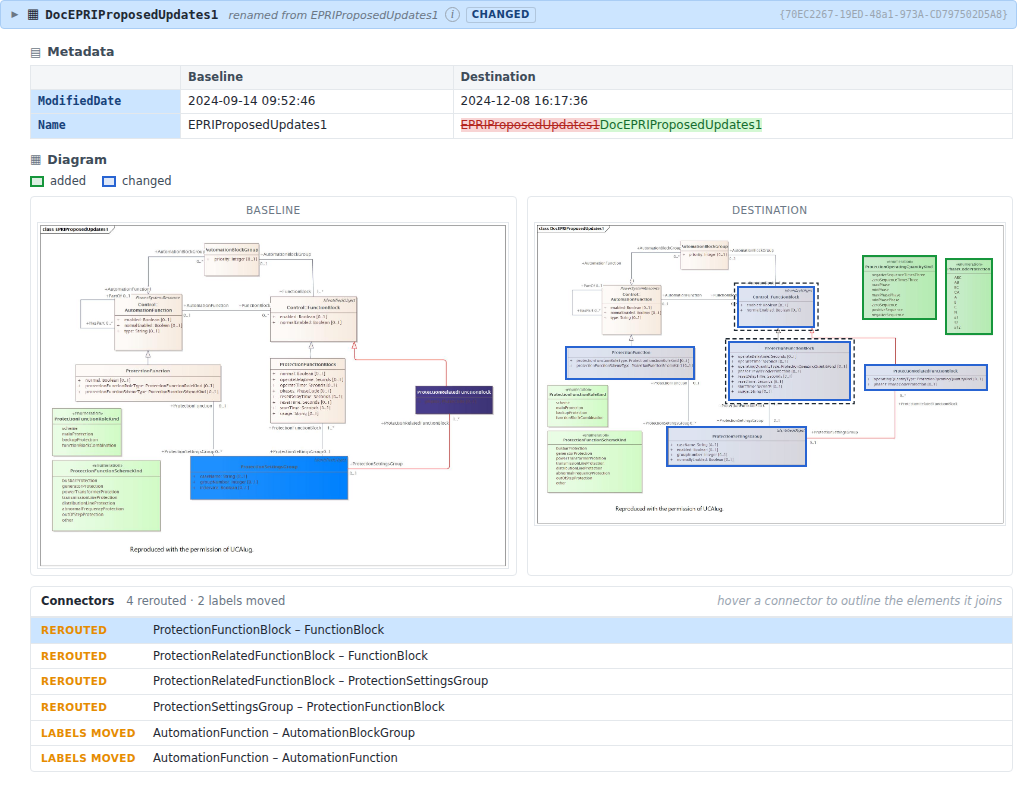
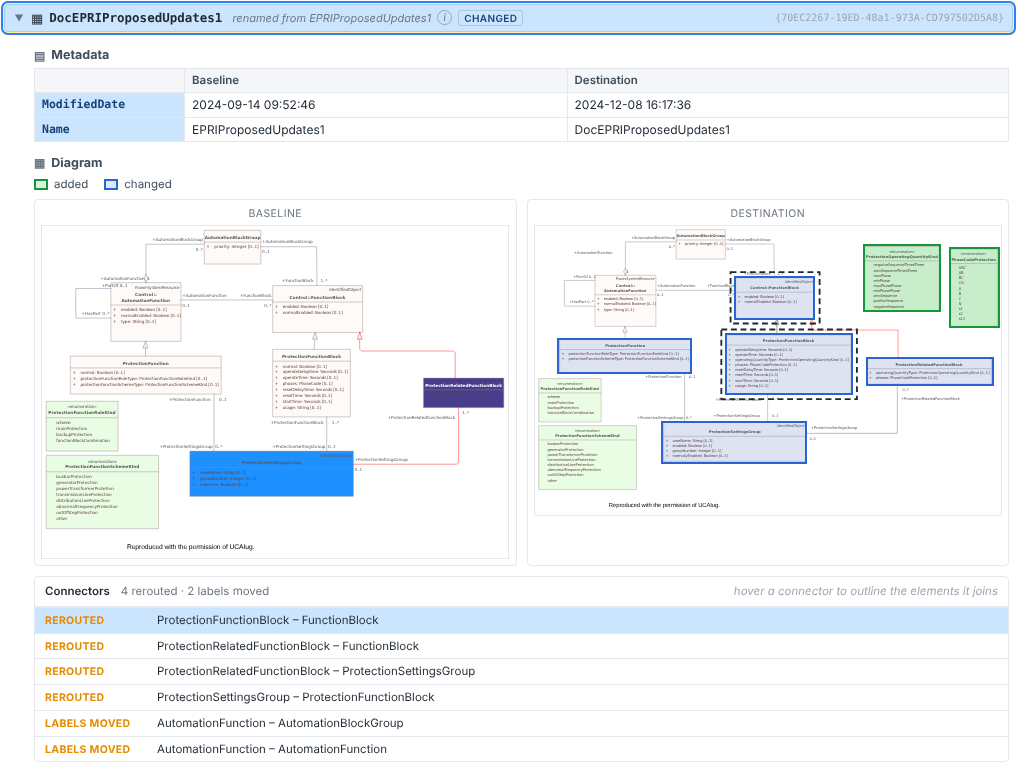
Docs and screenshots for 2.3.0
Claude-Session: https://claude.ai/code/session_011tgNrNWWxYpt25Uj32Kb6G

diff --git a/README.md b/README.md
@@ -6,7 +6,7 @@
 - **What it does:** given a "baseline" and a "destination" model (EA `.eap` / `.qea` project files, XMI 1.1 exports, or an EA model comparison log), it writes a single, self-contained HTML report of every added, deleted, moved and changed package, class and diagram. The report has search, filters, word-level redlines and highlighted diagram changes, and needs no server or internet connection.
 - **Who uses it:** the UCA TF13 model managers use it to publish the changes in each CIM release, and anyone tracking the CIM can use it to see what a new release means for their profiles, interfaces or products.
 
-See an [example report](https://cim-compare.ucaiug.io/example-comparison-report/comparison-report.html), or download this guide as a [PDF](cim-compare-2.2.0-users-guide.pdf).
+See an [example report](https://cim-compare.ucaiug.io/example-comparison-report/comparison-report.html), or download this guide as a [PDF](cim-compare-2.3.0-users-guide.pdf).
 
 ## Table of Contents
 - [Home](#cim-compare)
@@ -41,10 +41,21 @@ See an [example report](https://cim-compare.ucaiug.io/example-comparison-report/
 
 ## Latest Release
 
-2.2.0  
+2.3.0  
 
  - For release notes describing the latest features and/or fixes visit [latest release](https://github.com/cimug-org/cim-compare/releases).
- - To directly download the latest release of the cim-compare command-line application click [cim-compare-2.2.0.jar](https://github.com/cimug-org/cim-compare/releases/download/2.2.0/cim-compare-2.2.0.jar).
+ - To directly download the latest release of the cim-compare command-line application click [cim-compare-2.3.0.jar](https://github.com/cimug-org/cim-compare/releases/download/2.3.0/cim-compare-2.3.0.jar).
+
+<details markdown="1">
+<summary>What's New in 2.3.0</summary>
+
+- **Tagged values are compared** ([#169](https://github.com/cimug-org/cim-compare/issues/169)): user-defined tags (such as `baseuri` and `baseprefix`) on packages, classes, attributes and associations, which earlier releases never compared. They are recorded in the comparison XML as EA's Compare Utility records them, and shown in the report; an element whose only change is a tag is reported as changed. See [Class Details](#class-details).
+- **The summary counts stay in view** ([#175](https://github.com/cimug-org/cim-compare/issues/175)) while you scroll; **Off · Counts · Counts + legend** at the right of the counts sets what stays, and `p` cycles it. See [Report Layout](#report-layout).
+- **Fix:** diagram highlight outlines stopped partway down elements that EA draws taller than their stored size, for example a class whose added stereotypes push its name down ([#165](https://github.com/cimug-org/cim-compare/issues/165)). Each outline now covers the element as EA drew it, in height as well as width.
+- **Fix:** a link end's heading, and the heading of an attribute's ⓘ metadata, showed the name in capitals, e.g. "SOURCE END — BASEVOLTAGE" ([#172](https://github.com/cimug-org/cim-compare/issues/172)). The name now keeps its own case.
+- **Fix:** metadata tables redlined a changed name or alias, though the old value is shown beside it ([#179](https://github.com/cimug-org/cim-compare/issues/179)). Tables now redline only free text (notes); a new name is shown as plain text, as for a renamed attribute.
+
+</details>
 
 <details markdown="1">
 <summary>What's New in 2.2.0</summary>
@@ -122,7 +133,7 @@ The output generated by **cim-compare** is a single, self-contained HTML file co
 ### Report Layout
 
 - **Header** (always visible at the top): the cim-compare logo (a link to the [cim-compare website](https://cim-compare.ucaiug.io)), the baseline and destination versions, the scope of the comparison (the package given with `--package`, or the model's root nodes and "full model"), when the comparison was made, the cim-compare version (a link to its release), and the controls described below. At the right, **Print / PDF** opens the browser's print dialog (see [Printing and PDF](#printing-and-pdf)).
-- **Summary**: counts of added, deleted, moved and changed packages, classes and diagrams. Click a count to show only those items (for example **Classes › 9 added** shows just the 9 added classes, with their packages opened and every other package hidden); click more than one to combine them, and **clear filters** to show everything again. The package outline on the left always lists the whole model.
+- **Summary**: counts of added, deleted, moved and changed packages, classes and diagrams. Click a count to show only those items (for example **Classes › 9 added** shows just the 9 added classes, with their packages opened and every other package hidden); click more than one to combine them, and **clear filters** to show everything again. The package outline on the left always lists the whole model. The counts stay under the header while you scroll; **Off · Counts · Counts + legend** at the right of the counts sets what stays in view (Counts by default), and the `p` key cycles it. The choice is remembered in the browser. Printing shows the counts and legend once, at the top.
 - **Legend**: what each color means (see [Status Colors](#status-colors)). When differences between a value and an empty value were left out (see `--show-empty-values`), a line under the legend says how many; point at it for the fields concerned.
 - **Package outline** (left): every package with changes, and the number of changed classes and diagrams in it, including its sub-packages. Click a package to jump to it; the package you are reading is highlighted as you scroll. Turn it off with the **Outline** checkbox or the `o` key. It is hidden in narrow windows and when printing.
 - **Package tree** (right): packages, and within each package its classes and then its diagrams, grouped by status in the order Deleted, Added, Moved, Changed. Click a row to open or close it; **Expand all** and **Collapse all** open or close everything, and Alt-click on an arrow opens a package and everything in it.
@@ -147,8 +158,9 @@ Open a class to see what changed in it, in this order:
 
 1. **Description** – the class notes. When they changed, the baseline text appears beside the destination text, and the destination is *redlined*: wording removed since the baseline is struck through in red and new wording is highlighted in green. When most of a text was rewritten, the whole old text is struck through and the whole new text inserted, which is easier to read than a word-by-word comparison.
 2. **Metadata** – the class properties that changed (stereotype, abstract, alias and so on), baseline beside destination. A property whose value was cleared or filled in is shown as changed, with *(empty)* on the side that has no value. In the housekeeping fields EA fills in automatically (Complexity, Phase, Version, GenType, and Containment, IsLiteral, Derived, Const and Static at their defaults), a difference between a value and an empty value is not shown unless the report was generated with `--show-empty-values`.
-3. **Attributes** – one row per changed attribute: its type and multiplicity in the baseline and in the destination, and its notes, redlined. In the Destination column a changed type is shown as the new type in blue, and a changed multiplicity is redlined. A renamed attribute shows its new name with "renamed from *old name*" under it. A new attribute shows "does not exist" in the baseline column; a deleted one shows "removed from model" in the destination column. When an attribute changed only in properties its row does not show, such as an enumeration literal given an initial value, its ⓘ is blue with a dot and the row reads *metadata changed - hover ⓘ* (*see below* in inline mode).
-4. **Links** – generalizations, associations and aggregations, each as a card showing both ends in the baseline and in the destination, followed by the changed properties of the source end and the target end. Each end of an association reads *class* <i>role</i> *role name* [*multiplicity*], for example `ACDCTerminal` <i>role</i> `ACDCTerminal [0..1]`: the class (a link to it), then its role name and multiplicity. On the destination line changed role names and multiplicities are redlined. A multiplicity written differently with the same meaning, such as `1..1` and `1`, is tagged **notation only**.
+3. **Tagged values** – the class's user-defined tagged values (such as `baseuri` or `baseprefix`) that were added, removed or changed, each with its baseline and destination value. A tag on one side only shows *(no tag)* on the other. Packages show the same section at the top of their contents, and association cards show a **Tagged values** table under Link metadata, and under each end that has tags. An attribute's tags are listed in its ⓘ metadata; a change only in its tags marks the row *metadata changed*. An element whose only change is a tagged value counts as changed. The ⓘ of a package or class lists all its tags.
+4. **Attributes** – one row per changed attribute: its type and multiplicity in the baseline and in the destination, and its notes, redlined. In the Destination column a changed type is shown as the new type in blue, and a changed multiplicity is redlined. A renamed attribute shows its new name with "renamed from *old name*" under it. A new attribute shows "does not exist" in the baseline column; a deleted one shows "removed from model" in the destination column. When an attribute changed only in properties its row does not show, such as an enumeration literal given an initial value, its ⓘ is blue with a dot and the row reads *metadata changed - hover ⓘ* (*see below* in inline mode).
+5. **Links** – generalizations, associations and aggregations, each as a card showing both ends in the baseline and in the destination, followed by the changed properties of the source end and the target end. Each end of an association reads *class* <i>role</i> *role name* [*multiplicity*], for example `ACDCTerminal` <i>role</i> `ACDCTerminal [0..1]`: the class (a link to it), then its role name and multiplicity. On the destination line changed role names and multiplicities are redlined. A multiplicity written differently with the same meaning, such as `1..1` and `1`, is tagged **notation only**.
 
 ![](media/Report_Class_Description_Attributes.png)
 
@@ -159,7 +171,7 @@ Other controls in the header:
 - **ⓘ hover / ⓘ inline** – the ⓘ next to a package, class or attribute shows all of its properties, with the baseline and destination values in full, including the unredlined baseline notes. In **hover** mode (the default) they appear in a pop-up when you point at the ⓘ; click it to keep the pop-up open. In **inline** mode they appear in the page.
 - **Hide redline** – shows the destination text without the struck and inserted markings.
 
-Redlining marks changed descriptions and notes, names (including role names) and multiplicities. A changed attribute type is the one exception: it is shown as the new type, in blue. A renamed element also shows "renamed from *old name*" next to its new name.
+Redlining marks changed descriptions and notes, role names and multiplicities. A changed attribute type is shown as the new type, in blue, and in tables that show the baseline and destination values side by side, a changed name or other short value is shown as it is. A renamed element also shows "renamed from *old name*" next to its new name.
 
 Descriptions and notes are shown exactly as stored in Enterprise Architect. Any rich-text formatting (for example `<i>`, `<sub>`, `<li>`) appears as raw markup; it is not rendered.
 - **GUIDs** – each package, class, attribute and link shows its GUID, in grey at the right. Turn them off with the checkbox or the `g` key. The GUID shows when an element was renamed rather than replaced: a renamed element keeps its GUID.
@@ -213,6 +225,7 @@ Every diagram that changed is listed. A diagram whose only changes are its name,
 | `Home` | Back to the top (the browser's Back button returns you) |
 | `o` | Show / hide the package outline |
 | `g` | Show / hide GUIDs |
+| `p` | Keep in view while scrolling: off / counts / counts + legend |
 | `+` `−` `0` | In an enlarged diagram: zoom in, zoom out, fit to the window |
 | `Esc` | Clear the search, close a pop-up or an enlarged diagram |
 
@@ -238,13 +251,13 @@ Given the large file sizes consumed and produced by the utility, **OutOfMemory**
 > For a 32-bit JRE it is recommended to specify a max heap size of at least 1G (i.e. 1024m) resources permitting. With a 1G heap size the execution will typically run slower. Note that the maximum theoretical heap limit for a 32-bit JVM is 4G. However, due to various additional constraints such as available swap, kernel address space usage, memory fragmentation, and VM overhead, in practice the limit can be much lower. On most modern 32-bit Windows systems the maximum heap size will range from 1.4G to 1.6G. A 32-bit Java refuses a larger setting such as `-Xmx4G` at startup with "Invalid maximum heap size". A comparison of the CIM Grid package with diagrams runs on 32-bit Java 17 with `-Xmx1200m`.
 
 ```
-java -Xmx1G -jar cim-compare-2.2.0.jar iec61970cim16v26a.xmi iec61970cim17v16.xmi D:\reports
+java -Xmx1G -jar cim-compare-2.3.0.jar iec61970cim16v26a.xmi iec61970cim17v16.xmi D:\reports
 ```
 
 > For 64 bit JREs it is recommended that the maximum heap size be increased to at least 2G (i.e. 2048m) but more if available. It has been observed that 2G is minimally sufficient to handle larger CIM models one might encounter. In the below example 4G is being allocated.
 
 ```
-java -Xmx4G -jar cim-compare-2.2.0.jar iec61970cim16v26a.qea iec61970cim17v16.qea D:\reports
+java -Xmx4G -jar cim-compare-2.3.0.jar iec61970cim16v26a.qea iec61970cim17v16.qea D:\reports
 ```
 
 > Most of that memory is needed to export and compare the models. Producing the report itself takes much less: for a full-model CIM17v40 → CIM18v16 comparison (a 92 MB comparison XML), the report step needed less than 1G, including with `--full`.
@@ -324,9 +337,9 @@ If you are comparing `.qea` files with a 64-bit EA (EA 16 or later) then you'll 
 >
 > The purpose of each is:
 > 
-> - `SSJavaCOM.dll` - the 32-bit COM Module DLL (Dynamic Linked Library) that **cim-compare** will link to when a 32-bit Java JVM/JRE is used to run `cim-compare-2.2.0.jar` from the command line (the usual path for `.eap` project files with a 32-bit EA; `.eap` files use Microsoft's Jet database engine, which is 32-bit only, so only a 32-bit EA can open them, though 64-bit Java with `SSJavaCOM64.dll` can also drive a 32-bit EA, as in the tested mixed comparison under [Warning: Potential Configuration Pitfalls](#warning-potential-configuration-pitfalls)).
+> - `SSJavaCOM.dll` - the 32-bit COM Module DLL (Dynamic Linked Library) that **cim-compare** will link to when a 32-bit Java JVM/JRE is used to run `cim-compare-2.3.0.jar` from the command line (the usual path for `.eap` project files with a 32-bit EA; `.eap` files use Microsoft's Jet database engine, which is 32-bit only, so only a 32-bit EA can open them, though 64-bit Java with `SSJavaCOM64.dll` can also drive a 32-bit EA, as in the tested mixed comparison under [Warning: Potential Configuration Pitfalls](#warning-potential-configuration-pitfalls)).
 >
-> - `SSJavaCOM64.dll` - the 64-bit COM Module DLL that **cim-compare** will link to when a 64-bit Java JVM/JRE is used to run `cim-compare-2.2.0.jar` from the command line (the usual path for `.qea` project files with a 64-bit EA, EA 16 or later; `.qea` itself is not 64-bit-only, as Sparx states `.qea` files work in both 32-bit and 64-bit EA).
+> - `SSJavaCOM64.dll` - the 64-bit COM Module DLL that **cim-compare** will link to when a 64-bit Java JVM/JRE is used to run `cim-compare-2.3.0.jar` from the command line (the usual path for `.qea` project files with a 64-bit EA, EA 16 or later; `.qea` itself is not 64-bit-only, as Sparx states `.qea` files work in both 32-bit and 64-bit EA).
 >   	
 > **cim-compare** communicates to the appropriate COM Module DLL depending on the particular JVM (32-bit or 64-bit) being used on the command line. Which DLL to load is decided at run time: EA's `eaapi.jar` loads `SSJavaCOM.dll` when Java reports its architecture as `x86` (32-bit Java) and `SSJavaCOM64.dll` otherwise.
 >
@@ -338,8 +351,8 @@ To use **cim-compare** on a system with a dual 32-bit and 64-bit Sparx EA instal
 ```
 C:\
 ├── cim-compare
-│   ├── cim-compare-2.2.0.jar   (the latest downloaded from https://cim-compare.ucaiug.io)
-│   ├── cim-compare-2.2.0.bat   (example batch file for execution)
+│   ├── cim-compare-2.3.0.jar   (the latest downloaded from https://cim-compare.ucaiug.io)
+│   ├── cim-compare-2.3.0.bat   (example batch file for execution)
 │   ├── ea15
 │   │   ├── SSJavaCOM.dll       (copied from "C:\Program Files (x86)\Sparx Systems\EA15\Java API")
 │   │   └── SSJavaCOM64.dll     (copied from "C:\Program Files (x86)\Sparx Systems\EA15\Java API")
@@ -368,7 +381,7 @@ Following is a set of command lines based on the above example configuration and
  
 ```
 "C:\Program Files (x86)\Zulu\zulu-17\bin\java.exe" -Xmx1200m -Djava.library.path="C:\cim-compare\ea15" ^
-  -jar cim-compare-2.2.0.jar cim17v40.eap cim18v02.eap comparison-report.html ^
+  -jar cim-compare-2.3.0.jar cim17v40.eap cim18v02.eap comparison-report.html ^
   --include-diagrams --image-type=JPG
 ```
 
@@ -384,7 +397,7 @@ The above 32-bit command line example uses:
 
 ```
 "C:\Program Files\Zulu\zulu-17\bin\java.exe" -Xmx4G -Djava.library.path="C:\cim-compare\ea16" ^
-  -jar cim-compare-2.2.0.jar cim17v40.qea cim18v02.qea comparison-report.html ^
+  -jar cim-compare-2.3.0.jar cim17v40.qea cim18v02.qea comparison-report.html ^
   --include-diagrams --image-type=SVG
 ```
 The above 64-bit command line example uses:
@@ -413,7 +426,7 @@ The above 64-bit command line example uses:
 >
 > If choosing to simplify the command line via use of the default installation of Java such as:
 >
-> `java -Xmx4G -Djava.library.path="C:\cim-compare\ea16" -jar cim-compare-2.2.0.jar ...`
+> `java -Xmx4G -Djava.library.path="C:\cim-compare\ea16" -jar cim-compare-2.3.0.jar ...`
 > 
 > ...then it is suggested that you confirm the bit-wise version of your default Java installation. The following java command will result in output that should indicate if your default installation is 32-bit. This either by explicitly stating as such or by including the installation directory which for 32-bit will be located in `C:\Program Files (x86)\...`. Note that for many of the newest releases of Java, if not explicitly stated as being 32-bit, it is then implied to be 64-bit as illustrated in this example:
 >
@@ -449,7 +462,7 @@ The preferred usage is to provide two Enterprise Architect `*.eap` or `*.qea` fi
 The command-line usage for this option takes the following form:
 
 ```
-java [<jvm-parameter-1>]...[<jvm-parameter-n>] -jar cim-compare-2.2.0.jar
+java [<jvm-parameter-1>]...[<jvm-parameter-n>] -jar cim-compare-2.3.0.jar
      <baseline-model-file> <destination-model-file> [<output-directory-or-html-file>]
      [--package=<package-name>,...] [--full] [--show-empty-values] [--include-diagrams] [--image-type=<image-file-extension>]
      [--zip] [--cleanup]
@@ -457,7 +470,7 @@ java [<jvm-parameter-1>]...[<jvm-parameter-n>] -jar cim-compare-2.2.0.jar
 
 *Parameter Details*:
 
-`[<jvm-parameter-x>]` **(Optional)**: A JVM (Java Virtual Machine) parameter that may be needed for execution. JVM parameters are configurations used to control the behavior of the JVM at runtime and take a form such as `-Xmx1G`, `-Xmx4G` or `-Dfile.encoding=UTF-8`. These parameters can influence memory usage, garbage collection, system properties, debugging, and performance tuning. JVM parameters are passed as command-line arguments when starting a Java application and if used should **appear first** in the sequence of command line arguments (before `cim-compare-2.2.0.jar`). This is necessary so that **cim-compare** does not try to process them as part of its command line arguments which should always appear after `cim-compare-2.2.0.jar`. Note that for this Option #1 the `-Djava.library.path=<directory>` JVM parameter is required as will be described later.
+`[<jvm-parameter-x>]` **(Optional)**: A JVM (Java Virtual Machine) parameter that may be needed for execution. JVM parameters are configurations used to control the behavior of the JVM at runtime and take a form such as `-Xmx1G`, `-Xmx4G` or `-Dfile.encoding=UTF-8`. These parameters can influence memory usage, garbage collection, system properties, debugging, and performance tuning. JVM parameters are passed as command-line arguments when starting a Java application and if used should **appear first** in the sequence of command line arguments (before `cim-compare-2.3.0.jar`). This is necessary so that **cim-compare** does not try to process them as part of its command line arguments which should always appear after `cim-compare-2.3.0.jar`. Note that for this Option #1 the `-Djava.library.path=<directory>` JVM parameter is required as will be described later.
 
 `<baseline-model-file>` **(Required)**: An Enterprise Architect baseline `.eap` or `.qea` model file. When not specified as an absolute file path the location is assumed to be the directory **cim-compare** is being executed from.
 
@@ -484,37 +497,37 @@ java [<jvm-parameter-1>]...[<jvm-parameter-n>] -jar cim-compare-2.2.0.jar
 **Command Line Examples:**
 
 ```
-java -Xmx1G -Djava.library.path="C:\cim-compare\ea15" -jar cim-compare-2.2.0.jar ^
+java -Xmx1G -Djava.library.path="C:\cim-compare\ea15" -jar cim-compare-2.3.0.jar ^
   "C:\exports\15v33.eap" "C:\exports\CIM16v26a.eap" "C:\reports"
 
-java -Xmx4G -Djava.library.path="C:\cim-compare\ea16" -jar cim-compare-2.2.0.jar ^
+java -Xmx4G -Djava.library.path="C:\cim-compare\ea16" -jar cim-compare-2.3.0.jar ^
   "C:\exports\15v33.qea" "C:\exports\CIM16v26a.qea" "C:\reports"
 
-java -Xmx1G -Djava.library.path="C:\cim-compare\ea15" -jar cim-compare-2.2.0.jar ^
+java -Xmx1G -Djava.library.path="C:\cim-compare\ea15" -jar cim-compare-2.3.0.jar ^
   "C:\exports\15v33.eap" "C:\exports\CIM16v26a.eap" --package=IEC61970
 
-java -Xmx4G -Djava.library.path="C:\cim-compare\ea16" -jar cim-compare-2.2.0.jar ^
+java -Xmx4G -Djava.library.path="C:\cim-compare\ea16" -jar cim-compare-2.3.0.jar ^
   CIM16_Reference.qea CIM16_Extended.qeax --package="Grid,European Standards,UtilityExtensions"
 
-java -Xmx1G -Djava.library.path="C:\cim-compare\ea15" -jar cim-compare-2.2.0.jar ^
+java -Xmx1G -Djava.library.path="C:\cim-compare\ea15" -jar cim-compare-2.3.0.jar ^
   CIM15v33.eap CIM16v26a.eap C:\reports --include-diagrams --zip
 
-java -Xmx4G -Djava.library.path="C:\cim-compare\ea16" -jar cim-compare-2.2.0.jar ^
+java -Xmx4G -Djava.library.path="C:\cim-compare\ea16" -jar cim-compare-2.3.0.jar ^
   CIM15v33.qea CIM16v26a.qea C:\reports\CIM15v33_CIM16v26a_ComparisonReport.html --full
 
-java -Xmx1G -Djava.library.path="C:\cim-compare\ea15" -jar cim-compare-2.2.0.jar ^
+java -Xmx1G -Djava.library.path="C:\cim-compare\ea15" -jar cim-compare-2.3.0.jar ^
   CIM15v33.eap CIM16v26a.eap --package=IEC62325 --include-diagrams --image-type=GIF --zip --cleanup
 
-java -Xmx4G -Djava.library.path="C:\cim-compare\ea16" -jar cim-compare-2.2.0.jar ^
+java -Xmx4G -Djava.library.path="C:\cim-compare\ea16" -jar cim-compare-2.3.0.jar ^
   CIM17v40.qea CIM18v16.qea --package=Grid --include-diagrams --image-type=SVG --zip --cleanup
 
-java -Xmx4G -Djava.library.path="C:\cim-compare\ea16" -jar cim-compare-2.2.0.jar ^
+java -Xmx4G -Djava.library.path="C:\cim-compare\ea16" -jar cim-compare-2.3.0.jar ^
   CIM_Grid18v13.qea CIM_Grid18v14.qea --package=Grid --show-empty-values
 
-java -Xmx4G -Djava.library.path="C:\cim-compare\ea16" -jar cim-compare-2.2.0.jar ^
+java -Xmx4G -Djava.library.path="C:\cim-compare\ea16" -jar cim-compare-2.3.0.jar ^
   CIM16_Reference.qea CIM16_Extended.qeax --package=Model
 
-java -Xmx4G -Djava.library.path="C:\cim-compare\ea16" -jar cim-compare-2.2.0.jar ^
+java -Xmx4G -Djava.library.path="C:\cim-compare\ea16" -jar cim-compare-2.3.0.jar ^
   CIM_Grid18v13.eap CIM_Grid18v14.qeax --package=Grid --include-diagrams
 ```
 
@@ -524,8 +537,10 @@ NOTE:  The above command line examples use both `.eap` and `.qea` EA files as in
 
 The second usage is to directly specify two XMI 1.1 compliant files representing the "baseline" and “destination” models exported as described later in [Enterprise Architect XMI Export Procedures](#enterprise-architect-xmi-export-procedures). In this scenario the command-line usage takes the following form:
 
+> IMPORTANT: the XMI files must be Enterprise Architect exports of type **"UML 1.3 (XMI 1.1)"**, with **"Unisys/Rose Format"** not checked. **cim-compare** does not read EA's other XMI formats (XMI 2.x, or XMI 1.1 in Unisys/Rose format) and stops with an error naming the file. See [Enterprise Architect XMI Export Procedures](#enterprise-architect-xmi-export-procedures).
+
 ```
-java [<jvm-parameter-1>]...[<jvm-parameter-n>] -jar cim-compare-2.2.0.jar
+java [<jvm-parameter-1>]...[<jvm-parameter-n>] -jar cim-compare-2.3.0.jar
      <baseline-model-xmi-file> <destination-model-xmi-file> [<output-directory-or-html-file>]
      [--package=<package-name>,...] [--full] [--show-empty-values] [--include-diagrams] [--image-type=<image-file-extension>]
      [--zip] [--cleanup]
@@ -533,11 +548,11 @@ java [<jvm-parameter-1>]...[<jvm-parameter-n>] -jar cim-compare-2.2.0.jar
 
 *Parameter Details*:
 
-`[<jvm-parameter-x>]` **(Optional)**: A JVM (Java Virtual Machine) parameter that may be needed for execution. JVM parameters are configurations used to control the behavior of the JVM at runtime and take a form such as `-Xmx1G`, `-Xmx4G` or `-Dfile.encoding=UTF-8`. These parameters can influence memory usage, garbage collection, system properties, debugging, and performance tuning. JVM parameters are passed as command-line arguments when starting a Java application and if used should **appear first** in the sequence of command line arguments (before `cim-compare-2.2.0.jar`). This is necessary so that **cim-compare** does not try to process them as part of its command line arguments which should always appear after `cim-compare-2.2.0.jar`.
+`[<jvm-parameter-x>]` **(Optional)**: A JVM (Java Virtual Machine) parameter that may be needed for execution. JVM parameters are configurations used to control the behavior of the JVM at runtime and take a form such as `-Xmx1G`, `-Xmx4G` or `-Dfile.encoding=UTF-8`. These parameters can influence memory usage, garbage collection, system properties, debugging, and performance tuning. JVM parameters are passed as command-line arguments when starting a Java application and if used should **appear first** in the sequence of command line arguments (before `cim-compare-2.3.0.jar`). This is necessary so that **cim-compare** does not try to process them as part of its command line arguments which should always appear after `cim-compare-2.3.0.jar`.
 
-`<baseline-model-xmi-file>` **(Required)**: An XMI 1.1 compliant baseline model file exported from EA. When not specified as an absolute file path the location of the file is assumed to be the directory the utility is being executed from.
+`<baseline-model-xmi-file>` **(Required)**: A "UML 1.3 (XMI 1.1)" baseline model file exported from EA. When not specified as an absolute file path the location of the file is assumed to be the directory the utility is being executed from.
 
-`<destination-model-xmi-file>` **(Required)**: An XMI 1.1 compliant destination model file exported from EA. When not specified as an absolute file path the location of the file is assumed to be the directory the utility is being executed from.
+`<destination-model-xmi-file>` **(Required)**: A "UML 1.3 (XMI 1.1)" destination model file exported from EA. When not specified as an absolute file path the location of the file is assumed to be the directory the utility is being executed from.
 
 `[<output-directory-or-html-file>]` **(Optional)**: An output directory or an output HTML file. In the case where a directory is specified but does not exist it will be created. The same is true for the parent directory of a specified HTML file if it does not exist. When an HTML file is provided it may be specified as an absolute file path or as the simple name of an HTML file to be generated. If this command line option is not specified then **cim-compare** will generate an HTML file whose name is derived from the two input files.
 
@@ -562,20 +577,20 @@ java [<jvm-parameter-1>]...[<jvm-parameter-n>] -jar cim-compare-2.2.0.jar
 **Command Line Examples:**
 
 ```
-java -Xmx2G -jar cim-compare-2.2.0.jar "C:\XMI exports\15v33.xmi" "C:\XMI exports\CIM16v26a.xmi" "C:\reports"
+java -Xmx2G -jar cim-compare-2.3.0.jar "C:\XMI exports\15v33.xmi" "C:\XMI exports\CIM16v26a.xmi" "C:\reports"
 
-java -Xmx2G -jar cim-compare-2.2.0.jar "C:\XMI exports\15v33.xmi" "C:\XMI exports\CIM16v26a.xmi" --package=IEC61970
+java -Xmx2G -jar cim-compare-2.3.0.jar "C:\XMI exports\15v33.xmi" "C:\XMI exports\CIM16v26a.xmi" --package=IEC61970
 
-java -Xmx2G -jar cim-compare-2.2.0.jar CIM16_Reference.xmi CIM16_Extended.xmi --package=Grid,UtilityExtensions
+java -Xmx2G -jar cim-compare-2.3.0.jar CIM16_Reference.xmi CIM16_Extended.xmi --package=Grid,UtilityExtensions
 
-java -Xmx2G -jar cim-compare-2.2.0.jar CIM15v33.xmi CIM16v26a.xmi C:\reports --full
+java -Xmx2G -jar cim-compare-2.3.0.jar CIM15v33.xmi CIM16v26a.xmi C:\reports --full
 
-java -Xmx2G -jar cim-compare-2.2.0.jar CIM15v33.xmi CIM16v26a.xmi C:\reports ^
+java -Xmx2G -jar cim-compare-2.3.0.jar CIM15v33.xmi CIM16v26a.xmi C:\reports ^
   --include-diagrams --image-type=GIF --zip --cleanup
 
-java -Xmx2G -jar cim-compare-2.2.0.jar CIM15v33.xmi CIM16v26a.xmi C:\reports\CIM15v33_CIM16v26a_ComparisonReport.html
+java -Xmx2G -jar cim-compare-2.3.0.jar CIM15v33.xmi CIM16v26a.xmi C:\reports\CIM15v33_CIM16v26a_ComparisonReport.html
 
-java -Xmx2G -jar cim-compare-2.2.0.jar CIM15v33.xmi CIM16v26a.xmi CIM15v33_CIM16v26a_ComparisonReport.html ^
+java -Xmx2G -jar cim-compare-2.3.0.jar CIM15v33.xmi CIM16v26a.xmi CIM15v33_CIM16v26a_ComparisonReport.html ^
   --package=IEC62325 --include-diagrams --image-type=JPG --zip
 ```
 
@@ -586,14 +601,14 @@ The third option is by specifying an **EA model comparison log** file as input o
 This particular usage takes the following form:
 
 ```
-java [<jvm-parameter-1>]...[<jvm-parameter-n>] -jar cim-compare-2.2.0.jar
+java [<jvm-parameter-1>]...[<jvm-parameter-n>] -jar cim-compare-2.3.0.jar
      <comparison-results-xml-file> [<output-directory-or-html-file>]
      [--package=<package-name>,...] [--full] [--show-empty-values] [--zip] [--cleanup]
 ```
 
 *Parameter Details*:
 
-`[<jvm-parameter-x>]` **(Optional)**: A JVM (Java Virtual Machine) parameter that may be needed for execution. JVM parameters are configurations used to control the behavior of the JVM at runtime and take a form such as `-Xmx1G`, `-Xmx4G` or `-Dfile.encoding=UTF-8`. These parameters can influence memory usage, garbage collection, system properties, debugging, and performance tuning. JVM parameters are passed as command-line arguments when starting a Java application and if used should **appear first** in the sequence of command line arguments (before `cim-compare-2.2.0.jar`). This is necessary so that **cim-compare** does not try to process them as part of its command line arguments which should always appear after `cim-compare-2.2.0.jar`.
+`[<jvm-parameter-x>]` **(Optional)**: A JVM (Java Virtual Machine) parameter that may be needed for execution. JVM parameters are configurations used to control the behavior of the JVM at runtime and take a form such as `-Xmx1G`, `-Xmx4G` or `-Dfile.encoding=UTF-8`. These parameters can influence memory usage, garbage collection, system properties, debugging, and performance tuning. JVM parameters are passed as command-line arguments when starting a Java application and if used should **appear first** in the sequence of command line arguments (before `cim-compare-2.3.0.jar`). This is necessary so that **cim-compare** does not try to process them as part of its command line arguments which should always appear after `cim-compare-2.3.0.jar`.
 
 `<comparison-results-xml-file>` **(Required)**: The model comparison file. When not specified as an absolute file path the location of the file is assumed to be the directory the utility is being executed in.
 
@@ -614,19 +629,19 @@ java [<jvm-parameter-1>]...[<jvm-parameter-n>] -jar cim-compare-2.2.0.jar
 **Command Line Examples:**
 
 ```
-java -Xmx2G -jar cim-compare-2.2.0.jar "C:\CIM XMI Exports\CIM15v33_CIM16v26a_EA_Comparison_Report.xml" "C:\Reports"
+java -Xmx2G -jar cim-compare-2.3.0.jar "C:\CIM XMI Exports\CIM15v33_CIM16v26a_EA_Comparison_Report.xml" "C:\Reports"
 
-java -Xmx2G -jar cim-compare-2.2.0.jar CIM15v33_CIM16v26a_EA_Comparison_Report.xml "C:\Comparison Reports" --full
+java -Xmx2G -jar cim-compare-2.3.0.jar CIM15v33_CIM16v26a_EA_Comparison_Report.xml "C:\Comparison Reports" --full
 
-java -Xmx2G -jar cim-compare-2.2.0.jar CIM15v33_CIM16v26a_EA_Comparison_Report.xml "C:\Comparison Reports" --package=IEC61968
+java -Xmx2G -jar cim-compare-2.3.0.jar CIM15v33_CIM16v26a_EA_Comparison_Report.xml "C:\Comparison Reports" --package=IEC61968
 
-java -Xmx2G -jar cim-compare-2.2.0.jar CIM15v33_CIM16v26a_EA_Comparison_Report.xml ComparisonReport_CIM15v33_CIM16v26a.html
+java -Xmx2G -jar cim-compare-2.3.0.jar CIM15v33_CIM16v26a_EA_Comparison_Report.xml ComparisonReport_CIM15v33_CIM16v26a.html
 
-java -Xmx2G -jar cim-compare-2.2.0.jar CIM15v33_CIM16v26a_EA_Comparison_Report.xml
+java -Xmx2G -jar cim-compare-2.3.0.jar CIM15v33_CIM16v26a_EA_Comparison_Report.xml
 
-java -Xmx2G -jar cim-compare-2.2.0.jar CIM15v33_CIM16v26a_EA_Comparison_Report.xml --package=IEC61970
+java -Xmx2G -jar cim-compare-2.3.0.jar CIM15v33_CIM16v26a_EA_Comparison_Report.xml --package=IEC61970
 
-java -Xmx2G -jar cim-compare-2.2.0.jar CIM15v33_CIM16v26a_EA_Comparison_Report.xml --package=IEC61970 --zip --cleanup
+java -Xmx2G -jar cim-compare-2.3.0.jar CIM15v33_CIM16v26a_EA_Comparison_Report.xml --package=IEC61970 --zip --cleanup
 ```
 
 ### Output Files
@@ -638,7 +653,7 @@ In the output directory, a run produces:
 | `<name>.html` | all options | The comparison report. |
 | `Images-baseline\`, `Images-destination\` | Option #1 with `--include-diagrams` | The images of the diagrams the report shows, drawn by EA from the two projects. (With Option #2 you provide these folders yourself.) |
 | `<baseline>.xmi`, `<destination>.xmi` | Option #1 | The two models exported from EA as XMI 1.1. |
-| `<name>.xml` | Options #1 and #2 | The comparison of the two models, in EA's compare log format. |
+| `<name>.xml` | Options #1 and #2 | The comparison of the two models, in EA's compare log format. Tagged values are recorded as EA's Compare Utility records them: a `Tagged Values` item under the element, with one item per tag. |
 | `<name>-enriched.xml` | all options | The comparison XML as prepared for the report: element kinds and statuses resolved, redlines computed, counts added. Useful for troubleshooting a report or for processing the comparison with other tools. |
 | `<name>.zip` | `--zip` | The report and, with `--include-diagrams`, the two image folders. |
 
@@ -683,7 +698,7 @@ Distributed under the MIT license. See [LICENSE](LICENSE) for more information.
 
 ### Third-Party Software
 
-The `cim-compare-2.2.0.jar` includes the following third-party software:
+The `cim-compare-2.3.0.jar` includes the following third-party software:
 
 - **Saxon-HE** 12.5 by Saxonica, used to produce the HTML report, distributed under the [Mozilla Public License 2.0](https://www.mozilla.org/en-US/MPL/2.0/). Source code is available from [github.com/Saxonica/Saxon-HE](https://github.com/Saxonica/Saxon-HE).
 - **XML Resolver** 5.2.2, used by Saxon-HE, distributed under the [Apache License 2.0](https://www.apache.org/licenses/LICENSE-2.0).

diff --git a/.github/ISSUE_TEMPLATE/cim-compare-defect-report.md b/.github/ISSUE_TEMPLATE/cim-compare-defect-report.md
@@ -14,11 +14,11 @@ assignees: ''
 
 ### Describe the defect:
 
-A clear and concise description of what the defect is. Include what you were trying to do, the input you used (two `.eap`/`.qea` project files, two XMI files, or an EA compare log) and the full command line with its options (e.g. `java -Xmx4G -Djava.library.path="C:\cim-compare\ea16" -jar cim-compare-2.2.0.jar CIM17v40.qea CIM18v16.qea --package=Grid --include-diagrams --zip`).
+A clear and concise description of what the defect is. Include what you were trying to do, the input you used (two `.eap`/`.qea` project files, two XMI files, or an EA compare log) and the full command line with its options (e.g. `java -Xmx4G -Djava.library.path="C:\cim-compare\ea16" -jar cim-compare-2.3.0.jar CIM17v40.qea CIM18v16.qea --package=Grid --include-diagrams --zip`).
 
 ### cim-compare release:
 
-The exact release of cim-compare you were using (e.g. `cim-compare-2.2.0.jar`), and how it was run:
+The exact release of cim-compare you were using (e.g. `cim-compare-2.3.0.jar`), and how it was run:
 - Java vendor and version, and whether it is 32-bit or 64-bit (the output of `java -version`)
 - when `.eap`/`.qea` project files are the input: the Enterprise Architect version and which `SSJavaCOM.dll` / `SSJavaCOM64.dll` folder was on `-Djava.library.path`
 
@@ -32,7 +32,7 @@ The baseline and destination models compared. For example:
 ### To Reproduce:
 
 Depending on the nature of the defect, it can help to give the steps that produce it. For example:
-1. Run `java -jar cim-compare-2.2.0.jar ...`
+1. Run `java -jar cim-compare-2.3.0.jar ...`
 2. Open the report and expand '...'
 3. See '...'
 

diff --git a/lib/README.md b/lib/README.md
@@ -16,7 +16,7 @@ Also shipped within the above directory are the **SSJavaCOM.dll** and **SSJavaCO
 To use **cim-compare** on a system with a dual 32-bit and 64-bit Sparx EA installation (e.g. EA 15.x and EA 16.x) you will need to have a configuration similar to the following:
 
 ```
-C:\cim-compare\cim-compare-2.2.0.jar  (the latest release downloaded from https://cim-compare.ucaiug.io)
+C:\cim-compare\cim-compare-2.3.0.jar  (the latest release downloaded from https://cim-compare.ucaiug.io)
 C:\cim-compare\ea15\SSJavaCOM.dll  (copied from "C:\Program Files (x86)\Sparx Systems\EA15\Java API")
 C:\cim-compare\ea15\SSJavaCOM64.dll  (copied from "C:\Program Files (x86)\Sparx Systems\EA15\Java API")
 C:\cim-compare\ea16\SSJavaCOM.dll  (copied from "C:\Program Files\Sparx Systems\EA16\Java API")
@@ -29,7 +29,7 @@ Following is a set of command lines based on the example configuration. The firs
 
 ```
 "C:\Program Files (x86)\Zulu\zulu-17\bin\java.exe" -Xmx1G -Djava.library.path="C:\cim-compare\ea15" ^
-  -jar cim-compare-2.2.0.jar cim17v40.eap cim18v02.eap comparison-report.html ^
+  -jar cim-compare-2.3.0.jar cim17v40.eap cim18v02.eap comparison-report.html ^
   --include-diagrams --image-type=JPG
 ```
 
@@ -45,7 +45,7 @@ The above command line example uses:
 
 ```
 "C:\Program Files\Zulu\zulu-17\bin\java.exe" -Xmx4G -Djava.library.path="C:\cim-compare\ea16" ^
-  -jar cim-compare-2.2.0.jar cim17v40.qea cim18v02.qea comparison-report.html ^
+  -jar cim-compare-2.3.0.jar cim17v40.qea cim18v02.qea comparison-report.html ^
   --include-diagrams --image-type=JPG
 ```
 
